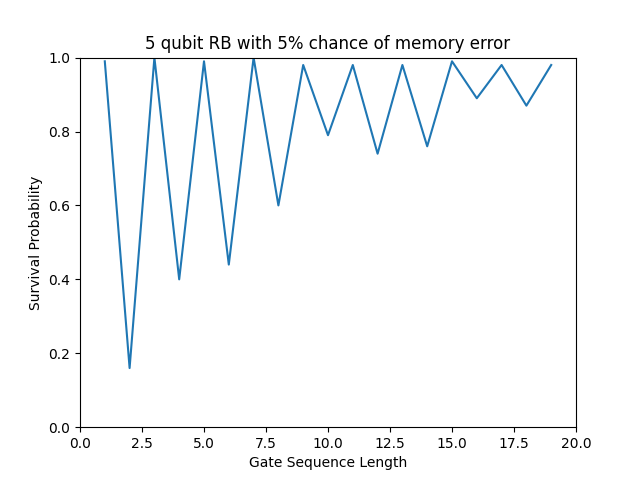
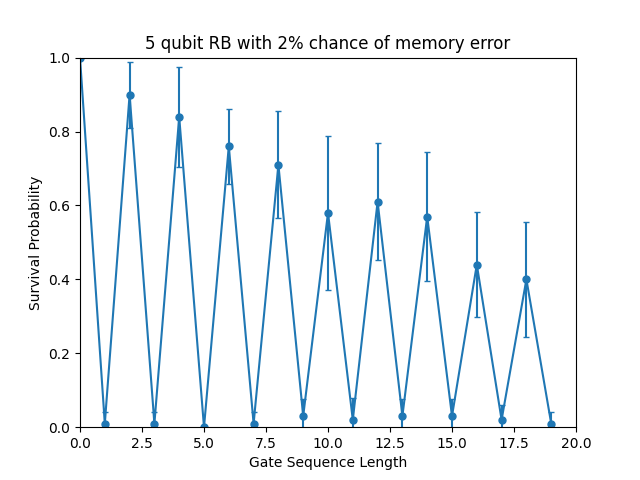
Even More Refactoring

diff --git a/NonExponentialRB/Plotting/Plot_Expectation_Values.py b/NonExponentialRB/Plotting/Plot_Expectation_Values.py
@@ -17,6 +17,7 @@ def plot_expectation_values(
     reg_b_copies=1,
     correction_on_reg_b=True,
     num_samples=1000,
+    samples_per_shot=100,
     filename=None,
     show_plot=False,
 ):
@@ -32,15 +33,18 @@ def plot_expectation_values(
         sample_period (int, optional):
             The rate of sampling of the sequence lengths between 1 and max_seq_length.
             Defaults to 1.
-        num_samples (int, optional):
-            Number of times the expectation value is collected from RB experiment.
-            Defaults to 1000.
         mem_err_param (int, optional):
             Controls the severity of the error on the
         mem_err_func (function):
             Error function to be applied to the memory
         reg_b_copies (int):
             Number of copies of register b used as a memory.
+        num_samples (int, optional):
+            Number of times the expectation value is collected from RB experiment.
+            Defaults to 1000.
+        shots_per_sample (int, optional):
+            Number of samples used per shot. Used to calcualte standard deviation.
+            Defaults to 100.
         filename (directory):
             Name of file to save results in. Always saves in plots.
         show_plot (bool):
@@ -49,7 +53,6 @@ def plot_expectation_values(
     """
 
     """ Gather expectation values for different sequence each length. """
-    evals = np.array([0.0 for _ in range(1, max_seq_length, sample_period)])
     helper = partial(
         _srb_with_memory_helper,
         num_qubits,
@@ -60,15 +63,33 @@ def plot_expectation_values(
         reg_b_copies,
         correction_on_reg_b,
     )
-    evals = Parallel(n_jobs=multiprocessing.cpu_count())(
+    samples = Parallel(n_jobs=multiprocessing.cpu_count())(
         delayed(helper)(sample_num) for sample_num in range(num_samples)
     )
-    """ Average the collected shots into expectation values for each
-    sequence length"""
-    evals = np.mean(np.array(evals).T, axis=1)
+    samples = np.array(samples).T
+    evals = np.mean(samples, axis=1)
+
+    """Calcualte Standard deviation for simulated RB experiment"""
+    if num_samples % samples_per_shot != 0:
+        raise ValueError(
+            f"Cannot split {num_samples} samples "
+            f"evenly into shots with {samples_per_shot} samples."
+        )
+    shots = np.reshape(
+        samples, (max_seq_length, num_samples // samples_per_shot, samples_per_shot)
+    )
+    shots = np.mean(shots, axis=2)
+    stddev = np.std(shots, axis=1)
 
     """ Plots a line graph with each of the expectation values """
-    plt.plot(list(range(1, max_seq_length, sample_period)), evals)
+    plt.errorbar(
+        list(range(0, max_seq_length, sample_period)),
+        evals,
+        yerr=stddev,
+        capsize=2,
+        marker="o",
+        markersize=5,
+    )
     plt.ylabel("Survival Probability")
     plt.xlabel("Gate Sequence Length")
     plt.axis((0, max_seq_length, 0, 1))
@@ -105,8 +126,8 @@ def _srb_with_memory_helper(
     correction_on_reg_b,
     sample_num,
 ):
-    """Helper function for parallelization. Each loop prints a sample for each intger
-    less than max_seq_length.
+    """Helper function for parallelization. Each loop collects a sample for each integer
+    less than max_seq_length. Here we print the sample number to keep track of progress.
 
 
     Args:
@@ -136,13 +157,13 @@ def _srb_with_memory_helper(
     return np.array(
         [
             srb_with_memory(
-                seq_len,
                 num_qubits,
+                seq_len,
                 mem_err_param,
                 mem_err_func,
                 reg_b_copies=reg_b_copies,
                 correction_on_reg_b=correction_on_reg_b,
             )
-            for seq_len in range(1, max_seq_length, sample_period)
+            for seq_len in range(0, max_seq_length, sample_period)
         ]
     )

diff --git a/NonExponentialRB/Figures/Figure_4.py b/NonExponentialRB/Figures/Figure_4.py
@@ -1,4 +1,8 @@
 """See Figure_plan.md to see specifications of plots
+
+    May take up to 24 hours.
+    Number of copies of register b is calculated so that 
+    osculations do not decay perceptibly.
 """
 
 from ..Plotting.Plot_Expectation_Values import plot_expectation_values
@@ -6,7 +10,7 @@ from ..Srb_With_Memory import mem_qubit_reset
 
 
 def main():
-    for num_qubits, reg_b_copies in zip([1, 5, 20], [10, 150, 2000]):
+    for num_qubits, reg_b_copies in zip([1, 5, 20], [104, 134, 162]):
         evals = plot_expectation_values(
             num_qubits,
             max_seq_length=20,
@@ -14,8 +18,8 @@ def main():
             mem_err_func=mem_qubit_reset,
             num_samples=1000,
             reg_b_copies=reg_b_copies,
-            correction_on_reg_b=False,
-            filename="figures/figure_4",
+            correction_on_reg_b=True,
+            filename=f"figures/figure_4_with_{num_qubits}_qubits",
         )
-        # Print evalss for confirmation
+        # Print evals for confirmation
         print(evals)

diff --git a/NonExponentialRB/Srb_With_Memory.py b/NonExponentialRB/Srb_With_Memory.py
@@ -2,7 +2,7 @@ import numpy as np
 from numpy.random import uniform
 
 from .Sample_Clifford_Element import random_clifford_generator
-from .SymplecticClifford import SymplecticClifford
+from .Symplectic_Clifford import SymplecticClifford
 
 
 def mem_qubit_flip(reg_b_state, flip_prob):
@@ -63,8 +63,8 @@ def mem_qubit_reset(reg_b_state, reset_prob):
 
 
 def srb_with_memory(
-    seq_len,
     num_qubits,
+    seq_len,
     mem_err_param,
     mem_err_func,
     reg_b_copies=1,
@@ -79,10 +79,10 @@ def srb_with_memory(
 
     Parameters
     ----------
+    num_qubits : positive integer
+            Number of qubits to be benchmarked.
     seq_len : positive integer
             Length of the RB sequence excluding inversion gate.
-    n : positive integer
-            Number of qubits to be benchmarked.
     mem_err_param : double in interval [0 1]
             Control parameter for mem_err_func. Usually varied over many calls
             to srb_with_memory to show differences in memory error.

diff --git a/NonExponentialRB/Plotting/Plot_Return_Prob.py b/NonExponentialRB/Plotting/Plot_Return_Prob.py
@@ -55,7 +55,7 @@ def plot_return_prob_varying_error_rate(
             )
         results.append(1 - np.mean(results_2))
 
-    plt.plot(mem_err_param_vals, results)
+    plt.plot(mem_err_param_vals, results, marker="o", markersize=5)
     plt.ylabel("Probability of returning to |0> state")
     plt.xlabel("Probability of Reset")
     plt.title("How Probable is Returning to the |0> state")
@@ -126,7 +126,7 @@ def plot_return_prob_varying_qubit_number(
             )
         results.append(1 - np.mean(results_2))
 
-    plt.plot(num_qubits_list, results)
+    plt.plot(num_qubits_list, results, marker="o", markersize=5)
     plt.ylabel("Probability of returning to |0> state")
     plt.xlabel("Number of Qubits")
     plt.title("How Probable is Returning to the |0> state")

diff --git a/NonExponentialRB/Figures/Figure_3.py b/NonExponentialRB/Figures/Figure_3.py
@@ -1,4 +1,6 @@
 """See Figure_plan.md to see specifications of plots
+
+This file might take about ~20 mins to run on a laptop
 """
 
 import numpy as np
@@ -17,7 +19,7 @@ def main():
         mem_err_param_vals=np.arange(0.0, 0.2, 0.02),
         mem_err_func=mem_qubit_reset,
         reg_b_copies=1,
-        num_samples=1000,
+        num_samples=10000,
         filename="figures/figure_3_a",
     )
 
@@ -29,7 +31,7 @@ def main():
         mem_err_param=0.02,
         mem_err_func=mem_qubit_reset,
         reg_b_copies=1,
-        num_samples=1000,
+        num_samples=10000,
         filename="figures/figure_3_b",
     )
 

diff --git a/NonExponentialRB/Figures/Figure_2.py b/NonExponentialRB/Figures/Figure_2.py
@@ -1,4 +1,6 @@
 """See Figure_plan.md to see specifications of plots
+
+Should finish in ~5 mins on a laptop.
 """
 
 from ..Plotting.Plot_Expectation_Values import plot_expectation_values
@@ -9,10 +11,11 @@ def main():
     evals = plot_expectation_values(
         5,
         max_seq_length=20,
-        mem_err_param=0.05,
+        mem_err_param=0.02,
         mem_err_func=mem_qubit_reset,
         num_samples=100,
-        correction_on_reg_b=True,
+        samples_per_shot=10,
+        correction_on_reg_b=False,
         filename="figures/figure_2",
     )
     # Print evals for confirmation

diff --git a/NonExponentialRB/Figures/Figure_1.py b/NonExponentialRB/Figures/Figure_1.py
@@ -1,4 +1,6 @@
 """See Figure_plan.md to see specifications of plot.
+
+Should finish in around ~5 mins on a laptop.
 """
 from ..Plotting.Plot_Expectation_Values import plot_expectation_values
 from ..Srb_With_Memory import mem_qubit_reset
@@ -10,7 +12,7 @@ def main():
         max_seq_length=20,
         mem_err_param=0,
         mem_err_func=mem_qubit_reset,
-        num_samples=10,
+        num_samples=1000,
         filename="figures/figure_1",
     )
     # Print expectation values for confirmation

diff --git a/NonExponentialRB/Symplectic_Clifford.py b/NonExponentialRB/Symplectic_Clifford.py
@@ -50,7 +50,7 @@ class SymplecticClifford:
         with |00..0> state. With these assumptions, we only need to look at if
         there are any X's in the pauli vector. O(num_qubits) time."""
         assert np.array_equal(self.table[:, :-1], np.eye(2 * self.num_qubits))
-        return 1 if 1 in self.table[1::2, -1] else 0
+        return 0 if 1 in self.table[1::2, -1] else 1
 
     def evolve_pauli(self, pauli: np.ndarray):
         """Evolves a given pauli by the clifford represented by self.

diff --git a/tests/test_Symplectic_Clifford.py b/tests/test_Symplectic_Clifford.py
@@ -4,7 +4,7 @@ from copy import deepcopy
 import numpy as np
 import pytest
 from NonExponentialRB.Sample_Clifford_Element import random_clifford_generator
-from NonExponentialRB.SymplecticClifford import SymplecticClifford, assert_commutations
+from NonExponentialRB.Symplectic_Clifford import SymplecticClifford, assert_commutations
 
 
 @pytest.mark.parametrize(

diff --git a/tests/test_plotting.py b/tests/test_plotting.py
@@ -8,7 +8,7 @@ def test_no_error_plot():
     if os.path.exists("plots/test_plots/no_error.png"):
         os.remove("plots/test_plots/no_error.png")
 
-    target = [(i, float(i % 2)) for i in range(1, 20)]
+    target = [(i, float((i + 1) % 2)) for i in range(1, 20)]
     evals = plot_expectation_values(
         1,
         max_seq_length=20,

diff --git a/tests/test_Srb_with_Memory.py b/tests/test_Srb_with_Memory.py
@@ -12,7 +12,7 @@ from scipy.optimize import curve_fit
 )
 def test_srb_with_memory_no_error(num_qubits):
     max_seq_length = 50
-    target = [0, 1] * (max_seq_length // 2)
+    target = [1, 0] * (max_seq_length // 2)
     samples = [
         srb_with_memory(
             seq_length,
